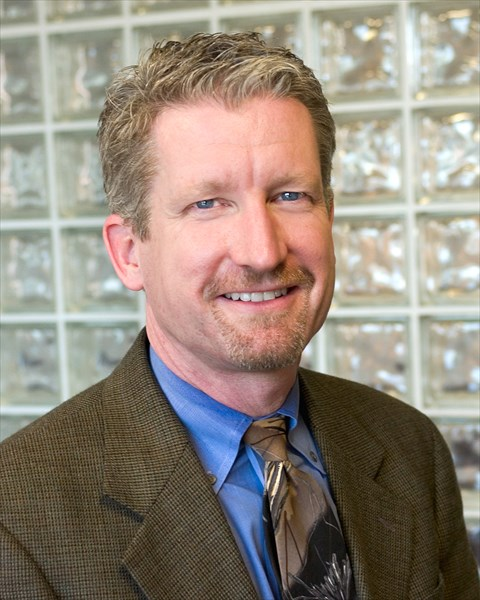
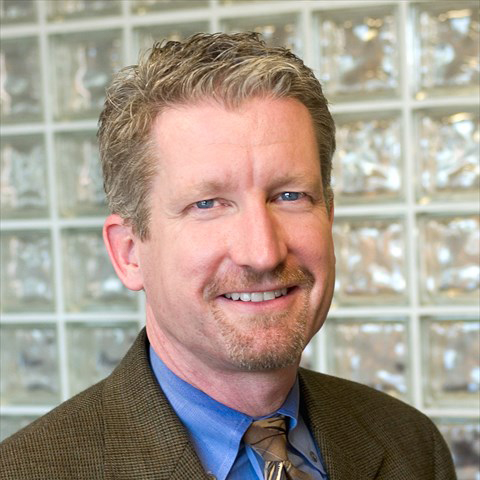
changed picture proportions and trial modal for team member

diff --git a/index.html b/index.html
@@ -297,7 +297,7 @@
         <div class="row">
           <div class="col-sm-4">
             <div class="team-member">
-              <img class="mx-auto rounded-circle" src="img/team/thomson.jpg" alt="">
+              <img class="mx-auto rounded-circle" src="img/team/thomson.jpg" alt="" data-toggle="modal" href="#portfolioModal2">
               <h4>Grant Thomson, MD</h4>
               <p class="text-muted">Founder and President</p>
               <ul class="list-inline social-buttons">
